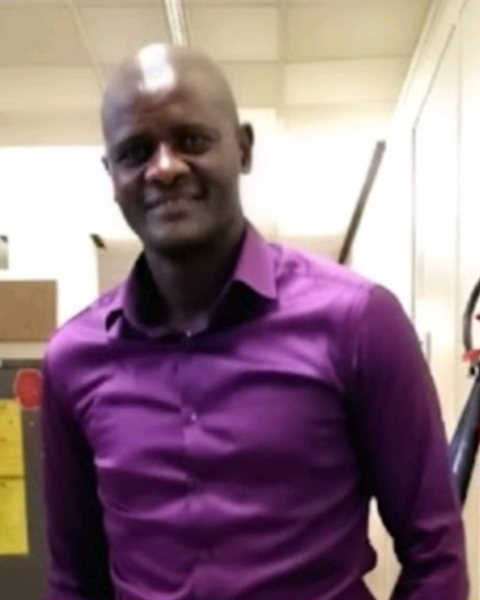
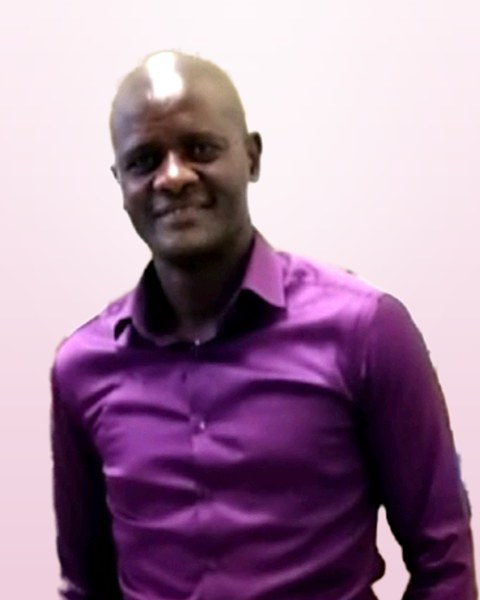
About page: founder photo on a clean backdrop and a more polished section (preview)
Claude-Session: https://claude.ai/code/session_01F7wBpkqYRfNaeAwUDm56yk

diff --git a/assets/site.css b/assets/site.css
@@ -131,7 +131,15 @@ fieldset{border:0;margin:0;padding:0}
 .join-back{justify-self:start;font-size:15px}
 
 /* About page: a short note from the founder. */
-.founder{display:grid;grid-template-columns:minmax(120px,200px) 1fr;gap:18px;align-items:center;margin:22px 0;padding:16px;border-radius:20px;background:#fff;border:1px solid #f3c6d8;box-shadow:0 10px 24px #8f1e5114}
-.founder img{width:100%;height:auto;aspect-ratio:4/5;object-fit:cover;border-radius:16px;display:block}
-.founder h2{margin:0 0 8px}.founder p{margin:0 0 8px}.founder-sign{font-weight:700;color:#a0124b}
-@media (max-width:520px){.founder{grid-template-columns:1fr}.founder img{max-width:240px;margin:0 auto}}
+.founder{display:grid;grid-template-columns:minmax(150px,230px) 1fr;gap:28px;align-items:center;margin:26px 0;padding:24px;border-radius:24px;background:linear-gradient(135deg,#fff 0%,#fff6fa 60%,#fde9f1 100%);border:1px solid #f3c6d8;box-shadow:0 18px 40px #8f1e511a}
+.founder-photo{position:relative;margin:0}
+.founder-photo img{width:100%;height:auto;aspect-ratio:4/5;object-fit:cover;border-radius:20px;display:block;border:4px solid #fff;box-shadow:0 12px 28px #4a0a2633}
+.founder-photo figcaption{position:absolute;left:50%;bottom:-12px;transform:translateX(-50%);padding:5px 14px;border-radius:999px;background:linear-gradient(135deg,#d81b60,#8f1e51);color:#fff;font-size:13px;font-weight:700;letter-spacing:.04em;white-space:nowrap;box-shadow:0 6px 14px #8f1e5140}
+.founder-eyebrow{margin:0 0 6px;font-size:13px;font-weight:800;letter-spacing:.12em;text-transform:uppercase;color:#d81b60}
+.doc .founder h2{margin:0;font-size:34px;line-height:1.1;letter-spacing:-.5px}
+.founder-role{margin:2px 0 14px;color:#6b5560;font-size:15px}
+.founder blockquote{margin:0 0 16px;padding:0 0 0 16px;border-left:4px solid #d81b60;font-size:18px;line-height:1.55;font-style:italic;color:#3a2430}
+.founder-points{list-style:none;margin:0 0 18px;padding:0;display:grid;gap:8px}
+.doc .founder-points li{margin:0;padding:8px 12px;border-radius:12px;background:#fff;border:1px solid #f6d5e2;font-size:15px}
+.founder-whatsapp{background:#1fa855}.founder-whatsapp:hover{background:#178a45}
+@media (max-width:560px){.founder{grid-template-columns:1fr;padding:20px;gap:26px;text-align:left}.founder-photo{max-width:230px;margin:0 auto}.doc .founder h2{font-size:30px}.founder blockquote{font-size:17px}.founder-whatsapp{width:100%;text-align:center}}

diff --git a/about.html b/about.html
@@ -35,12 +35,21 @@
   <p>It is run by <strong>Pike Insights</strong>. A real person looks after the community: checking new profiles and reports, and removing fake accounts.</p>
 
   <section class="founder" aria-labelledby="founder-title">
-    <img src="assets/team/founder-pike.jpg" width="480" height="600" alt="Pike, founder of P.K CONNECT" loading="lazy">
-    <div>
-      <h2 id="founder-title">👋 Meet the founder</h2>
-      <p>Hi, I'm <strong>Pike</strong>. I started P.K CONNECT so that single adults in Uganda, Botswana and around the world can meet genuine people, safely and for free.</p>
-      <p>I personally look at the reports you send and remove fake accounts. If you ever need help, WhatsApp us on <a href="https://wa.me/26772965279">+267 72 965 279</a>.</p>
-      <p class="founder-sign">— Pike, founder</p>
+    <figure class="founder-photo">
+      <img src="assets/team/founder-pike.jpg" width="480" height="600" alt="Pike, founder of P.K CONNECT" loading="lazy">
+      <figcaption>Founder</figcaption>
+    </figure>
+    <div class="founder-text">
+      <p class="founder-eyebrow">Meet the founder</p>
+      <h2 id="founder-title">Pike</h2>
+      <p class="founder-role">Founder, P.K CONNECT – Find Your Person</p>
+      <blockquote>“I started P.K CONNECT so that single adults in Uganda, Botswana and around the world can meet genuine people, safely and for free.”</blockquote>
+      <ul class="founder-points">
+        <li>🛡 I read every report and remove fake accounts</li>
+        <li>💸 We never ask for money in messages</li>
+        <li>💬 Real help when you need it</li>
+      </ul>
+      <a class="btn founder-whatsapp" href="https://wa.me/26772965279" target="_blank" rel="noopener">💬 WhatsApp us</a>
     </div>
   </section>
 
